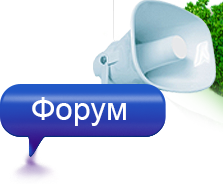
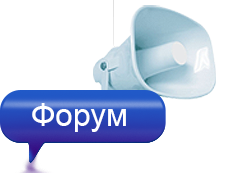
end

diff --git a/css/style.css b/css/style.css
@@ -197,14 +197,12 @@ header nav a:hover::after
 
 .logo
 {
-    width: 513px;
-    height: 77px;
     margin-left: 183px;    
 }
 .forumph
 {
-   margin-top: 270px;
-    margin-left: 22px;
+       margin-top: 279px;
+    margin-left: 24px;
 }
 
 h1
@@ -223,7 +221,7 @@ clear: right;
 }
 .level1 > li:before
 {
-    content: '-';
+    content: '- ';
 }
 
 section .level1
@@ -240,9 +238,8 @@ padding-left: 73px;
 .level1 li a
 {
     color: #6e508f;
-    font-family:" Arial";
+    font-family:"Arial";
     font-size: 20px;
-    font-weight: bold;
     line-height: 26px;
 }
 a:hover
@@ -325,7 +322,7 @@ height: 331px;
 }
 .level2 ul > li:before
 {
-    content: '*  ';
+    content: '*';
     color: #3366ff;
 }
 h3
@@ -511,14 +508,13 @@ footer nav li a {
 {
     
     width: 442px;
-    height: 53px ;
-
-  
+    height: 53px ; 
   text-align: center;
   background: #FFF;
   opacity: 0.8; 
     position: absolute;
     top: 226px;
+    margin-left: 39px;
 }
 .footnav
 {

diff --git a/index.html b/index.html
@@ -30,8 +30,10 @@
                 </span>
                  <p>полезных<br> статьей</p>
             </div>
+            <div id="forum">
             <a href="#" class="forum"></a>
             <img src="image/forum.png" alt="forum" class="forumph">
+            </div>
         </header>
         <main>
            <div class="in">
